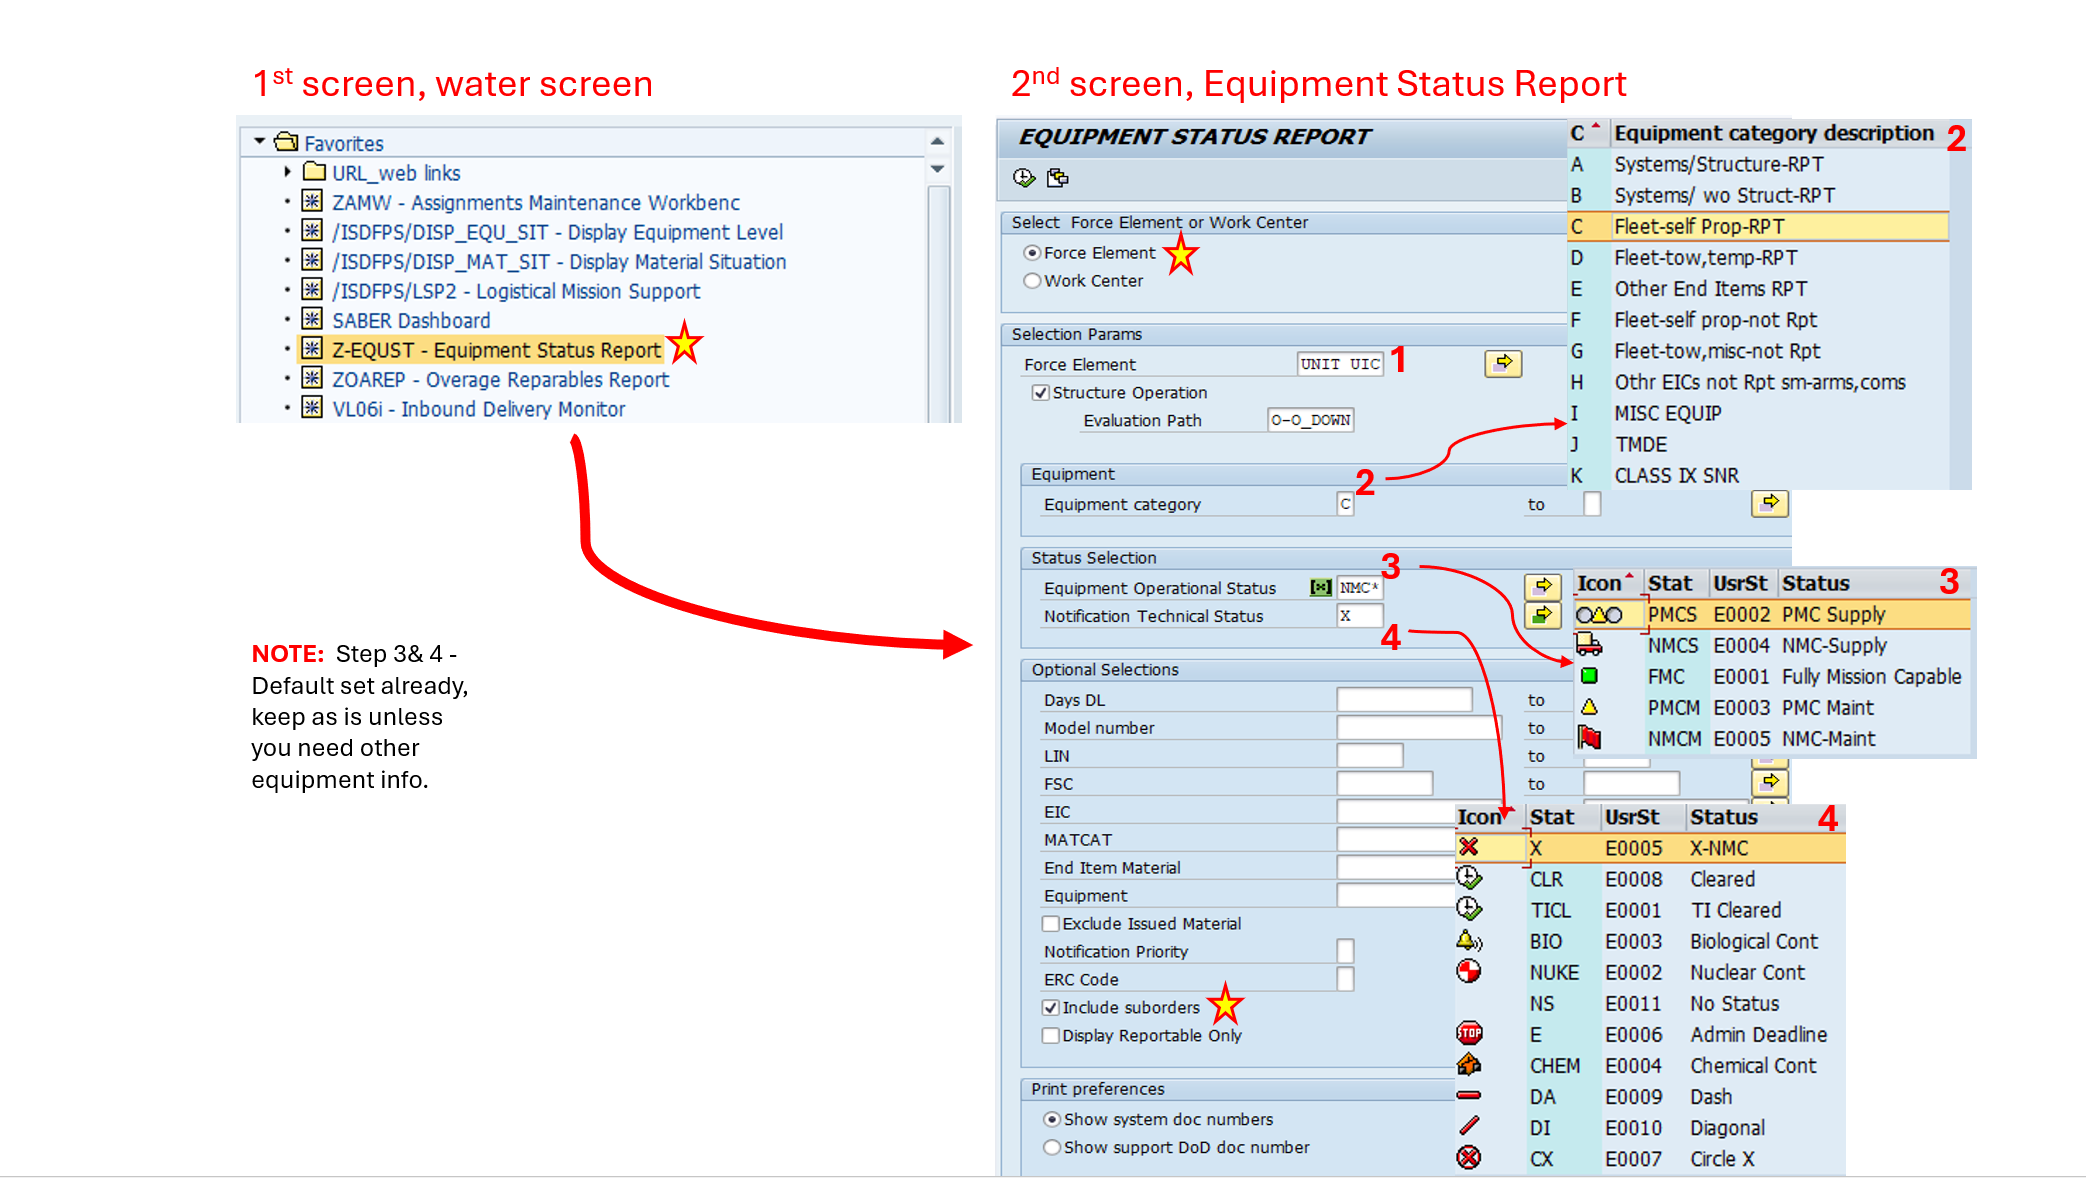
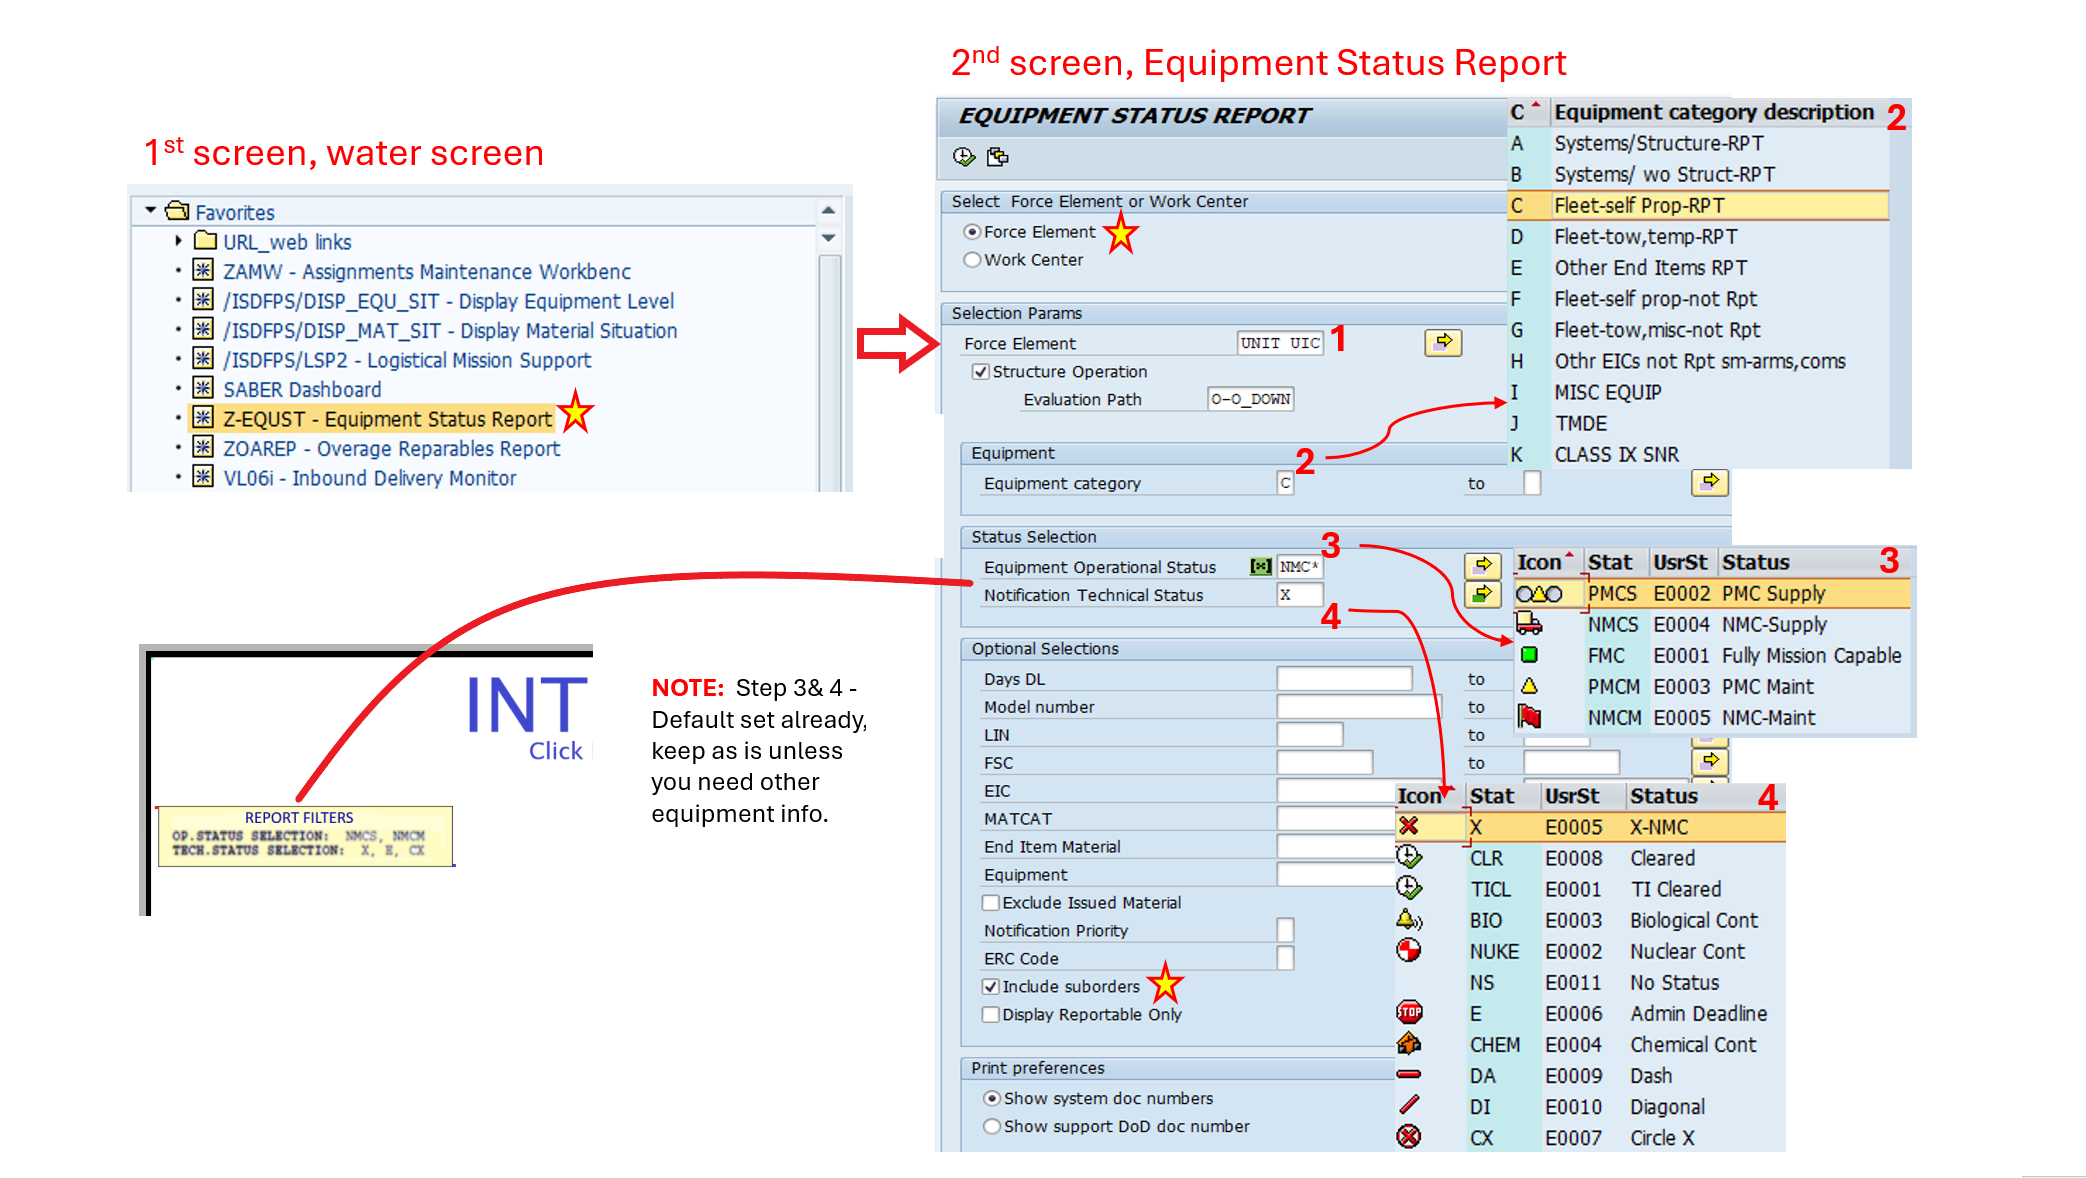
content: updated copy for slide 2gcsaa

diff --git a/content/esr-class/gcssa/sl12-gcssa-access-esr.html b/content/esr-class/gcssa/sl12-gcssa-access-esr.html
@@ -1,37 +1,57 @@
 <!DOCTYPE html>
 <html lang="en">
+
 <head>
   <meta charset="UTF-8">
   <meta name="viewport" content="width=device-width, initial-scale=1.0">
   <title>How to access the ESR in GCSS-A</title>
   <link rel="stylesheet" href="../css/styles.css">
 </head>
+
 <body>
   <header class="site-header">
     <nav class="top-nav" aria-label="CMDP and ESR class navigation">
       <span class="brand brand-primary">Maintenance is Readiness</span>
       <div class="nav-links">
         <div class="nav-links-main">
-        <a href="../esr/main/sl1-esr-key.html" data-slide="1"><span>Equipment Situation Report</span><span>Familiarization</span></a>
-        <a href="sl12-gcssa-access-esr.html" data-slide="12"><span>How to access the ESR</span><span>in GCSS-A</span></a>
-        <a href="../references/sl15-ref-esr-legend.html" data-slide="15">References</a>
+          <a href="../esr/main/sl1-esr-key.html" data-slide="1"><span>Equipment Situation
+              Report</span><span>Familiarization</span></a>
+          <a href="sl12-gcssa-access-esr.html" data-slide="12"><span>How to access the ESR</span><span>in
+              GCSS-A</span></a>
+          <a href="../references/sl15-ref-esr-legend.html" data-slide="15">References</a>
         </div>
         <a href="../../../index.html" class="nav-exit-cmdp">Back to CMDP</a>
       </div>
     </nav>
   </header>
-<main class="slide-shell" data-current-slide="12">
+  <main class="slide-shell" data-current-slide="12">
     <section class="slide-card" aria-labelledby="slide-title">
-<h1 id="slide-title" class="two-line-title"><span>How to access the ESR in GCSS-A</span><span>EK Z-EQUST - Equipment Status Report</span></h1>
+      <h1 id="slide-title" class="two-line-title"><span>How to access the ESR in GCSS-A</span><span>EK Z-EQUST -
+          Equipment Status Report</span></h1>
       <div class="slide-figure">
         <a class="slide-arrow slide-arrow-left" href="../esr/main/sl11-questions.html" aria-label="Previous page"></a>
-        <img class="slide-image" src="../../../assets/images/esr-class/how-to/how-to-1.png" alt="Slide 12: How to access the ESR in GCSS-A; EK Z-EQUST - Equipment Status Report">
+        <img class="slide-image" src="../../../assets/images/esr-class/how-to/how-to-1.png"
+          alt="Slide 12: How to access the ESR in GCSS-A; EK Z-EQUST - Equipment Status Report">
         <a class="slide-arrow slide-arrow-right" href="sl13-open-esr-pdf.html" aria-label="Next page"></a>
       </div>
 
       <div class="slide-copy">
-        <p>This is the GCSS-Army command used to open the Equipment Status Report.</p>
-        <p>Begin here before selecting report criteria or reviewing equipment status data.</p>
+        <p>This is the GCSS-Army command used to open the Equipment Status Report. Begin here to filter the report to
+          display all Non-Mission Capable Prime Movers in your UIC.</p>
+        <p>Step 1: Select [Force Element] and enter your unit <strong>UIC</strong>.
+        <p>Step 2: In the [Equipment Category] field, enter <strong>"C"</strong> Fleet-self Prop-RPT(Rolling Stock)</p>
+        <p> 3: Verify the [Equipment Operational Status] field contains "<strong>NMC*</strong>". <strong>*</strong> is a
+          wildcard.</p>
+        <p>Step 4: Verify the [Technical Status] field contains "<strong>X</strong>" (NMC)and "<strong>E</strong>"
+          (Administrative Deadline) as shown.
+        </p>
+        <p>Step 5: Verify <i>Include Suborders</i> is <strong>checked</strong> to ensure maintenance actions performed by
+          supporting
+          maintenance activities and external shops are included in the report.</p>
+        <p>Step 6: <strong>Execute</strong> the report. </p>
+        <p>The resulting Deadline Report will display all Fleet-self Prop  currently in a Non-Mission
+          Capable (NMC) status.
+        </p>
       </div>
     </section>
   </main>
@@ -42,4 +62,5 @@
 
   <script src="../js/app.js"></script>
 </body>
+
 </html>